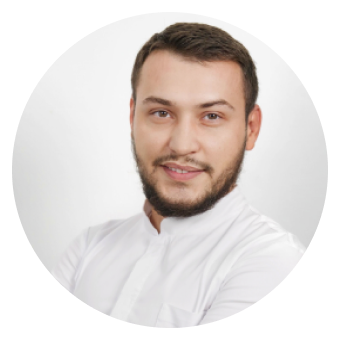
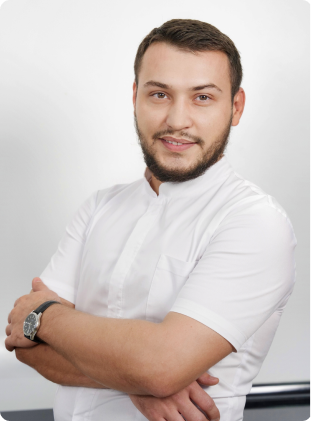
Fix doctor photos: replace oval-framed portraits with clean full-frame versions; relabel admin card; crop top

diff --git a/07-concept/index.html b/07-concept/index.html
@@ -80,6 +80,7 @@ header{position:sticky;top:0;z-index:50;background:#fbf9f4;border-bottom:1px sol
 .ph::after{content:attr(data-label);position:absolute;inset:auto 0 0 0;padding:10px 14px;font-size:12px;font-weight:600;color:#3c5e58;background:rgba(255,255,255,.65);text-align:center}
 .ph svg{width:64px;height:64px;opacity:.4}
 .ph img{position:absolute;inset:0;width:100%;height:100%;object-fit:cover;display:block}
+.doc .ph img,.flag-doc .ph img{object-position:center top}
 .ph.has-img{background:#e6f1ee}
 .ph.has-img::after{display:none}
 .eq img{width:100%;height:150px;object-fit:cover;border-radius:11px;margin-bottom:14px;display:block}
@@ -566,7 +567,7 @@ body.locked{overflow:hidden;height:100vh}
       <div class="doc reveal"><div class="ph has-img"><img src="assets/doc-1.jpg" alt="Додова Заира Иссаевна"></div><div class="doc-body"><div class="doc-spec">Гл. врач · ортопед</div><h3>Додова Заира Иссаевна</h3><p class="regs">Протезирование, эстетическая реставрация. Стаж 14 лет.</p><div class="rate"><span class="star">★</span> 4.9 · 86 отзывов</div><a href="#book" class="btn btn-ghost btn-block" style="min-height:44px;padding:11px">Записаться</a></div></div>
       <div class="doc reveal"><div class="ph has-img"><img src="assets/doc-2.jpg" alt="Хасханова Диана Ш."></div><div class="doc-body"><div class="doc-spec">Ортодонт</div><h3>Хасханова Диана Ш.</h3><p class="regs">Брекеты, элайнеры, исправление прикуса. Стаж 10 лет.</p><div class="rate"><span class="star">★</span> 4.8 · 64 отзыва</div><a href="#book" class="btn btn-ghost btn-block" style="min-height:44px;padding:11px">Записаться</a></div></div>
       <div class="doc reveal"><div class="ph has-img"><img src="assets/doc-3.jpg" alt="Султыгова Петимат А."></div><div class="doc-body"><div class="doc-spec">Терапевт</div><h3>Султыгова Петимат А.</h3><p class="regs">Лечение под микроскопом, кариес, эндодонтия. Стаж 11 лет.</p><div class="rate"><span class="star">★</span> 4.9 · 72 отзыва</div><a href="#book" class="btn btn-ghost btn-block" style="min-height:44px;padding:11px">Записаться</a></div></div>
-      <div class="doc reveal"><div class="ph has-img"><img src="assets/doc-4.jpg" alt="Гигиенист MFC Clinic"></div><div class="doc-body"><div class="doc-spec">Гигиенист</div><h3>Специалист гигиены</h3><p class="regs">Профгигиена, Air Flow, профилактика. Стаж 8 лет.</p><div class="rate"><span class="star">★</span> 5.0 · 58 отзывов</div><a href="#book" class="btn btn-ghost btn-block" style="min-height:44px;padding:11px">Записаться</a></div></div>
+      <div class="doc reveal"><div class="ph has-img"><img src="assets/doc-4.jpg" alt="Гигиенист MFC Clinic"></div><div class="doc-body"><div class="doc-spec">Старший администратор</div><h3>Валерия Николаевна</h3><p class="regs">Встретит, поможет с записью, документами и рассрочкой. Без очередей.</p><div class="rate"><span class="star">★</span> Забота о каждом госте</div><a href="#book" class="btn btn-ghost btn-block" style="min-height:44px;padding:11px">Записаться</a></div></div>
     </div>
   </div>
 </section>
